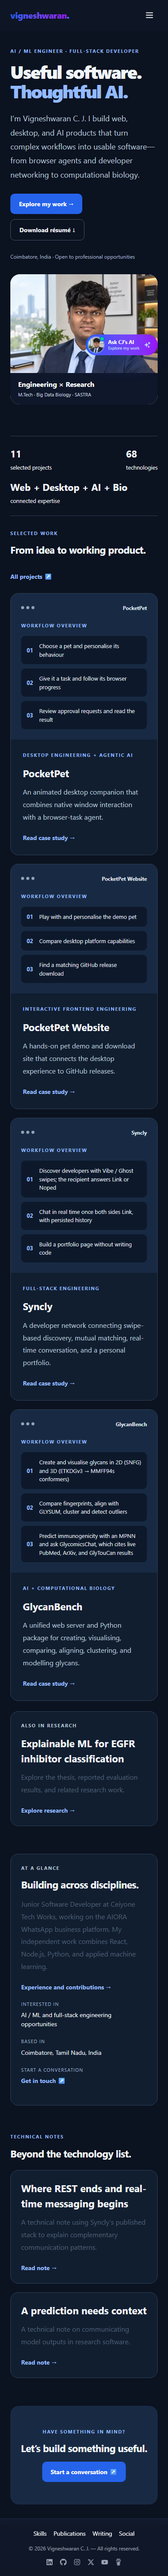
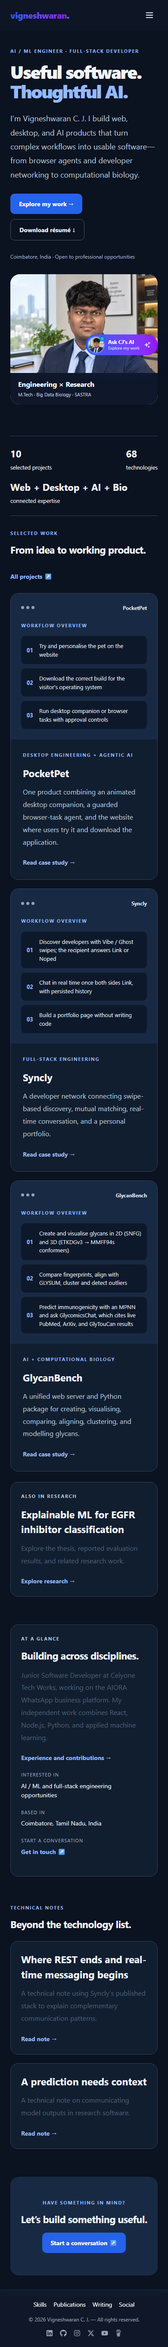
feat: update PocketPet project details and consolidate website information

Changed region(s): [[0.0615, 0.0, 0.9538, 0.9982], [0.8923, 0.3743, 0.9538, 0.4367], [0.8923, 0.5303, 0.9231, 0.5615]]

diff --git a/src/data/showcase.js b/src/data/showcase.js
@@ -1,25 +1,14 @@
 export const caseStudies = {
   pocketpet: {
     title: "PocketPet", index: 9, label: "Desktop engineering + agentic AI",
-    summary: "An animated desktop companion that combines native window interaction with a browser-task agent.",
-    problem: "A desktop companion needs to feel present without blocking everyday work, while making an AI agent's actions visible and controllable.",
-    role: "Development of the Tauri/Rust application, JavaScript pet behaviour and settings, native Windows integration, browser-task agent, and cross-platform packaging.",
-    steps: ["Choose a pet and personalise its behaviour", "Give it a task and follow its browser progress", "Review approval requests and read the result"],
-    architecture: ["Tauri 2 + Rust + plain JavaScript/SVG", "Win32 + UI Automation for Windows interaction", "Tokio + reqwest for streamed model calls", "Chrome DevTools Protocol + dedicated Chromium profile", "GitHub Actions platform builds and releases"],
-    decisions: ["Report pet hit regions to Rust so the overlay can pass clicks through outside the pet without taking keyboard focus.", "Keep model calls and credential access in Rust; support Anthropic and OpenAI-compatible protocols, including local servers.", "Use a separate browser profile with code-level approval checks, secret-field refusal, spend limits, pause, and cancellation controls.", "Separate platform modules: native window tricks run on Windows while macOS and Linux retain companion and task features."],
-    result: "Built a customisable companion with games, reminders, streamed browser tasks, follow-ups, scheduling, and release packaging for three desktop platforms.",
-    caveat: "Window tricks are Windows-only. macOS uses one display; Linux click-through requires X11/XWayland. Sensitive-action detection is heuristic and cannot guarantee detection of every risky action.",
-  },
-  "pocketpet-web": {
-    title: "PocketPet Website", index: 10, label: "Interactive frontend engineering",
-    summary: "A hands-on pet demo and download site that connects the desktop experience to GitHub releases.",
-    problem: "Visitors need to try the companion's personality, understand platform differences, and find the right installer without manually browsing release assets.",
-    role: "React/TypeScript website development, shared pet state, sprite animation, GitHub release integration, responsive UI, and Vercel deployment configuration.",
-    steps: ["Play with and personalise the demo pet", "Compare desktop platform capabilities", "Find a matching GitHub release download"],
-    architecture: ["React 19 + TypeScript + Vite", "Tailwind CSS 4 + SVG/CSS animation", "React context + requestAnimationFrame", "GitHub repository and release APIs", "Static hosting on Vercel"],
-    decisions: ["Reuse the desktop app's sprites and recolouring rules so the web demo reflects the product.", "Keep animation positions in mutable refs and update transforms directly, while React manages controls and shared appearance.", "Match release assets by platform suffix and fall back to GitHub Releases when an asset or API response is unavailable.", "Include keyboard actions, reduced-motion handling, persisted theme choice, and explicit platform capability comparisons."],
-    result: "Delivered a static product site with an interactive demo, a scrolling pet companion, live repository data, release notes, and OS-aware download links.",
-    caveat: "The website has no application backend. Its agent sequence is an illustrative demo; the actual browser-task agent runs in the desktop app. GitHub API limits or missing release assets can trigger fallback links.",
+    summary: "One product combining an animated desktop companion, a guarded browser-task agent, and the website where users try it and download the application.",
+    problem: "A desktop companion needs to feel present without blocking everyday work, make its AI agent's actions visible and controllable, and give visitors a clear way to understand platform support and download the correct installer.",
+    role: "End-to-end development of the Tauri/Rust application, JavaScript pet behaviour, native Windows integration, browser-task agent, React/TypeScript product website, GitHub release integration, and cross-platform packaging.",
+    steps: ["Try and personalise the pet on the website", "Download the correct build for the visitor's operating system", "Run desktop companion or browser tasks with approval controls"],
+    architecture: ["Tauri 2 + Rust + plain JavaScript/SVG desktop app", "React 19 + TypeScript + Vite download website", "Win32 + UI Automation for Windows interaction", "Tokio + reqwest + Chrome DevTools Protocol for agent tasks", "GitHub Actions, Releases API, and Vercel"],
+    decisions: ["Reuse the desktop app's sprites and recolouring rules on the website so the demo represents the downloaded product.", "Report pet hit regions to Rust so the overlay can pass clicks through outside the pet without taking keyboard focus.", "Keep model calls and credential access in Rust and use a separate browser profile with code-level approval checks, secret-field refusal, spend limits, pause, and cancellation controls.", "Match website download buttons to GitHub release assets by platform, with a release-page fallback when the API or an asset is unavailable."],
+    result: "Delivered PocketPet as one product: a customisable cross-platform companion with games, reminders and guarded browser tasks, plus an interactive website that explains, demonstrates, and distributes the application.",
+    caveat: "Window tricks are Windows-only. macOS uses one display; Linux click-through requires X11/XWayland. Sensitive-action detection is heuristic, and website downloads fall back to the GitHub Releases page when direct asset discovery is unavailable.",
   },
   syncly: {
     title: "Syncly", index: 0, label: "Full-stack engineering",

diff --git a/src/data/projects.js b/src/data/projects.js
@@ -97,25 +97,15 @@ export const projects = [
   },
   {
     title: "PocketPet",
-    subtitle: "Desktop Companion + AI Browser Agent",
+    subtitle: "Desktop Companion, AI Browser Agent + Download Website",
     description:
-      "A Tauri 2 desktop companion built with Rust and plain JavaScript. Four animated pets follow the cursor, play fetch, support custom appearances, and offer break reminders. A Rust task agent searches the web, reads pages, and drives a dedicated Chromium profile through the Chrome DevTools Protocol, with streamed progress, follow-ups, scheduled tasks, approval gates, and spend limits. Supports Anthropic and OpenAI-compatible providers, including local Ollama. Windows adds titlebar perching and caption-button actions through Win32 and UI Automation; macOS and Linux have a reduced feature set. Packaged through GitHub Actions for Windows, macOS, and Linux.",
+      "One cross-platform product comprising a Tauri 2/Rust desktop companion and its React/TypeScript download website. Four animated pets follow the cursor, play fetch, support custom appearances, and offer break reminders. A Rust task agent searches the web, reads pages, and drives a dedicated Chromium profile through the Chrome DevTools Protocol, with streamed progress, follow-ups, scheduled tasks, approval gates, and spend limits. The website reuses the app's sprites as an interactive demo, explains platform support, reads GitHub Releases, and directs each visitor to the correct Windows, macOS, or Linux download. Windows adds titlebar perching and caption-button actions through Win32 and UI Automation; macOS and Linux have a reduced feature set.",
     link: "https://pocketpet-web.vercel.app/",
     github: "https://github.com/vigneshcj001/Pocketpet",
-    tags: ["Rust", "Tauri", "JavaScript", "Tokio", "Win32", "Chrome DevTools Protocol", "Agentic AI", "GitHub Actions"],
+    githubWebsite: "https://github.com/vigneshcj001/Pocketpet-web",
+    tags: ["Rust", "Tauri", "JavaScript", "React.js", "TypeScript", "Tokio", "Win32", "Chrome DevTools Protocol", "Agentic AI", "GitHub API", "GitHub Actions", "Vercel"],
     accent: "violet",
     category: "Desktop/AI",
-  },
-  {
-    title: "PocketPet Website",
-    subtitle: "Interactive Product Demo + Release Downloads",
-    description:
-      "React 19 and TypeScript companion website for PocketPet, built with Vite and Tailwind CSS 4. Visitors can switch between four pets, feed, drag, toss, recolour, and accessorise them; shared React context keeps the hero, scrolling companion, and footer in sync. Animation uses requestAnimationFrame and the desktop app's SVG sprites. GitHub APIs supply repository stats, release notes, and platform-specific downloads with release-page fallbacks. Includes desktop OS detection, a platform feature matrix, keyboard controls, reduced-motion support, and a persistent light/dark theme. Deployed as a static site on Vercel with no application backend.",
-    link: "https://pocketpet-web.vercel.app/",
-    github: "https://github.com/vigneshcj001/Pocketpet-web",
-    tags: ["React.js", "TypeScript", "Vite", "Tailwind CSS", "SVG Animation", "GitHub API", "Vercel"],
-    accent: "orange",
-    category: "Frontend",
   },
 ];
 

diff --git a/src/pages/CaseStudy.js b/src/pages/CaseStudy.js
@@ -14,7 +14,7 @@ export default function CaseStudy() {
   return <article className="portfolio-section case-study">
     <Link className="text-link" to="/projects">← All projects</Link>
     <p className="eyebrow mt-8">{study.label} / Case study</p><h1>{study.title}</h1><p className="lead">{study.summary}</p>
-    <div className="action-row">{media?.liveAvailable !== false && <a className="primary-action" href={project.link} target="_blank" rel="noopener noreferrer" onClick={() => trackConversion("project_demo_click", { project: slug })}>Open live project ↗</a>}<a className="secondary-action" href={project.github} target="_blank" rel="noopener noreferrer">Source code ↗</a></div>
+    <div className="action-row">{media?.liveAvailable !== false && <a className="primary-action" href={project.link} target="_blank" rel="noopener noreferrer" onClick={() => trackConversion("project_demo_click", { project: slug })}>Open live project ↗</a>}<a className="secondary-action" href={project.github} target="_blank" rel="noopener noreferrer">Application source ↗</a>{project.githubWebsite && <a className="secondary-action" href={project.githubWebsite} target="_blank" rel="noopener noreferrer">Website source ↗</a>}</div>
     {media?.liveAvailable === false && <p className="mb-6 text-sm">Live preview is currently unavailable. Explore the workflow and source code below.</p>}
     <ProjectPreview study={study} />
     {media?.poster && <img className="rounded-2xl my-8" src={media.poster} alt={`${study.title} application screenshot`} loading="lazy" />}

diff --git a/src/pages/Project.js b/src/pages/Project.js
@@ -93,7 +93,7 @@ const Projects = () => {
         )}
 
         <div className="grid grid-cols-1 sm:grid-cols-2 lg:grid-cols-3 gap-5">
-          {filtered.map(({ title, subtitle, description, link, github, githubBackend, tags, accent, category }, idx) => (
+          {filtered.map(({ title, subtitle, description, link, github, githubBackend, githubWebsite, tags, accent, category }, idx) => (
             <motion.div
               key={title}
               initial={{ opacity: 0, y: 24 }}
@@ -166,6 +166,17 @@ const Projects = () => {
                       aria-label="GitHub backend repository"
                     >
                       <FiGithub className="w-3.5 h-3.5" /> Backend
+                    </a>
+                  )}
+                  {githubWebsite && (
+                    <a
+                      href={githubWebsite}
+                      target="_blank"
+                      rel="noopener noreferrer"
+                      className="inline-flex items-center gap-1.5 text-xs font-semibold text-gray-600 dark:text-gray-300 hover:text-gray-900 dark:hover:text-white transition-colors border border-gray-200 dark:border-gray-600 hover:border-gray-400 dark:hover:border-gray-400 px-3 py-1.5 rounded-lg"
+                      aria-label="PocketPet website GitHub repository"
+                    >
+                      <FiGithub className="w-3.5 h-3.5" /> Website source
                     </a>
                   )}
                 </div>

diff --git a/src/Hooks/useMeta.js b/src/Hooks/useMeta.js
@@ -9,7 +9,7 @@ export default function useMeta(title, description) {
     const pageTitle = title ? `${title} | Vigneshwaran C.J.` : BASE_TITLE;
     const desc = description || BASE_DESC;
     document.title = pageTitle;
-    const image = ["/projects/syncly", "/projects/glycanbench", "/projects/pocketpet", "/projects/pocketpet-web"].includes(pathname) ? `${BASE}/images/sharing/${pathname.split("/").pop()}.png` : `${BASE}/og-image.jpg`;
+    const image = ["/projects/syncly", "/projects/glycanbench", "/projects/pocketpet"].includes(pathname) ? `${BASE}/images/sharing/${pathname.split("/").pop()}.png` : `${BASE}/og-image.jpg`;
     for (const [key, value] of Object.entries({ description: desc, "og:title": pageTitle, "og:description": desc, "og:url": BASE + pathname, "og:image": image, "twitter:title": pageTitle, "twitter:description": desc, "twitter:image": image })) {
       const attr = key.startsWith("og:") ? "property" : "name";
       let el = document.querySelector(`meta[${attr}="${key}"]`);

diff --git a/scripts/build_resume.py b/scripts/build_resume.py
@@ -25,7 +25,9 @@ story += [para('SELECTED PROJECTS','SectionResume')]
 for name in ['PocketPet','Syncly','GlycanBench: a unified resource for working with glycans']:
  project=data['projects'].get(name)
  if project:
-  story += [para(name,'ItemResume'),para(project.get('description','')),para('Technologies: '+', '.join(project.get('tech_stack',[])))]
+  description = project.get('description','')
+  summary = description[:620] + ('...' if len(description) > 620 else '')
+  story += [para(name,'ItemResume'),para(summary),para('Technologies: '+', '.join(project.get('tech_stack',[])))]
 story += [para('EDUCATION','SectionResume')]
 for item in data['education']:
  story += [para(item['degree'],'ItemResume'),para(item['institution']+' | '+item['period']+' | '+item['grade'])]
